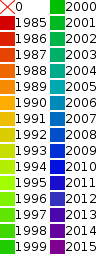
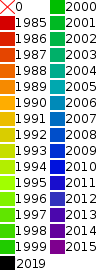
feat: add eox osm map to WSF as default and add it optionally for all other indicators in both instances

diff --git a/app/src/config/esa.js b/app/src/config/esa.js
@@ -224,6 +224,16 @@ const E1bConfigInputDataDes = [{
   opacity: 0.6,
 }];
 
+const cloudlessBaseLayerDefault = [{
+  ...baseLayers.cloudless,
+  visible: true,
+}, baseLayers.eoxosm, baseLayers.terrainLight];
+
+const eoxosmBaseLayerDefault = [{
+  ...baseLayers.eoxosm,
+  visible: true,
+}, baseLayers.cloudless, baseLayers.terrainLight];
+
 export const indicatorsDefinition = Object.freeze({
   C1: {
     indicatorSummary: 'Combined 1',
@@ -448,10 +458,7 @@ export const indicatorsDefinition = Object.freeze({
     indicatorSummary: 'Airports: airplanes traffic',
     themes: ['economy'],
     story: '/eodash-data/stories/E13d',
-    baseLayers: [baseLayers.terrainLight, {
-      ...baseLayers.cloudless,
-      visible: true,
-    }],
+    baseLayers: cloudlessBaseLayerDefault,
     mapTimeLabelExtended: true,
     features: {
       ...geodbFeatures,
@@ -766,10 +773,10 @@ export const mapDefaults = Object.freeze({
 
 export const baseLayersLeftMap = [{
   ...baseLayers.terrainLight, visible: true,
-}, baseLayers.cloudless];
+}, baseLayers.eoxosm, baseLayers.cloudless];
 export const baseLayersRightMap = [{
   ...baseLayers.terrainLight, visible: true,
-}, baseLayers.cloudless];
+}, baseLayers.eoxosm, baseLayers.cloudless];
 
 export const overlayLayersLeftMap = [{
   ...overlayLayers.eoxOverlay, visible: true,
@@ -1323,6 +1330,7 @@ export const globalIndicators = [
         time: getYearlyDates('1985', '2015'),
         inputData: [''],
         display: [{
+          baseLayers: eoxosmBaseLayerDefault,
           baseUrl: 'https://a.geoservice.dlr.de/eoc/land/wms/',
           name: 'DLR WSF 2019 coverage',
           layers: 'WSF_2019',
@@ -1330,7 +1338,7 @@ export const globalIndicators = [
           minZoom: 1,
           maxZoom: 17,
           labelFormatFunction: (date) => date,
-          attribution: '{ WSF Evolution Data are licensed under: <a href="https://creativecommons.org/licenses/by/4.0/" target="_blank"> Attribution 4.0 International (CC BY 4.0) </a>; Copyright DLR (2021)}',
+          attribution: '{ WSF Evolution Data are licensed under: <a href="https://creativecommons.org/licenses/by/4.0/" target="_blank"> Attribution 4.0 International (CC BY 4.0) </a>; Copyright DLR (2021);|Contains modified Copernicus Sentinel-1 and Sentinel-2 data [2019]}',
         }, {
           baseUrl: 'https://a.geoservice.dlr.de/eoc/land/wms/',
           name: 'DLR WSF Evolution 1985-2015',
@@ -1341,7 +1349,7 @@ export const globalIndicators = [
           labelFormatFunction: (date) => date,
           specialEnvTime: true,
           attribution: '{ WSF Evolution Data are licensed under: <a href="https://creativecommons.org/licenses/by/4.0/" target="_blank"> Attribution 4.0 International (CC BY 4.0) </a>; Contains modified Landsat-5/-7 data [1985-2015] }',
-        },],
+        }],
       },
     },
   },
@@ -1920,10 +1928,7 @@ export const globalIndicators = [
             dateFormatFunction: (date) => DateTime.fromISO(date).toFormat('yyyyMMdd'),
             url: './eodash-data/features/{indicator}/{indicator}_{aoiID}_{featuresTime}.geojson',
           },
-          baseLayers: [{
-            ...baseLayers.cloudless,
-            visible: true,
-          }, baseLayers.terrainLight],
+          baseLayers: cloudlessBaseLayerDefault,
         },
       },
     },
@@ -1958,10 +1963,7 @@ export const globalIndicators = [
             dateFormatFunction: (date) => DateTime.fromISO(date).toFormat('yyyyMMdd'),
             url: './eodash-data/features/{indicator}/{indicator}_{aoiID}_{featuresTime}.geojson',
           },
-          baseLayers: [{
-            ...baseLayers.cloudless,
-            visible: true,
-          }, baseLayers.terrainLight],
+          baseLayers: cloudlessBaseLayerDefault,
         },
       },
     },
@@ -1996,10 +1998,7 @@ export const globalIndicators = [
             dateFormatFunction: (date) => DateTime.fromISO(date).toFormat('yyyyMMdd'),
             url: './eodash-data/features/{indicator}/{indicator}_{aoiID}_{featuresTime}.geojson',
           },
-          baseLayers: [{
-            ...baseLayers.cloudless,
-            visible: true,
-          }, baseLayers.terrainLight],
+          baseLayers: cloudlessBaseLayerDefault,
         },
       },
     },
@@ -2034,10 +2033,7 @@ export const globalIndicators = [
             dateFormatFunction: (date) => DateTime.fromISO(date).toFormat('yyyyMMdd'),
             url: './eodash-data/features/E12b/E12b_{aoiID}_{featuresTime}.geojson',
           },
-          baseLayers: [{
-            ...baseLayers.cloudless,
-            visible: true,
-          }, baseLayers.terrainLight],
+          baseLayers: cloudlessBaseLayerDefault,
         },
       },
     },
@@ -2069,10 +2065,7 @@ export const globalIndicators = [
           layers: 'AWS_ICEYE-E13B',
           minZoom: 5,
           name: 'Airports: Detected planes',
-          baseLayers: [{
-            ...baseLayers.cloudless,
-            visible: true,
-          }, baseLayers.terrainLight],
+          baseLayers: cloudlessBaseLayerDefault,
         },
       },
     },
@@ -2104,10 +2097,7 @@ export const globalIndicators = [
           layers: 'AWS_ICEYE-E13B',
           minZoom: 5,
           name: 'Airports: Detected planes',
-          baseLayers: [{
-            ...baseLayers.cloudless,
-            visible: true,
-          }, baseLayers.terrainLight],
+          baseLayers: cloudlessBaseLayerDefault,
         },
       },
     },

diff --git a/app/src/config/trilateral.js b/app/src/config/trilateral.js
@@ -68,6 +68,21 @@ const geodbFeatures = {
   },
 };
 
+const cloudlessBaseLayerDefault = [{
+  ...baseLayers.cloudless,
+  visible: true,
+}, baseLayers.eoxosm, baseLayers.terrainLight];
+
+const eoxosmBaseLayerDefault = [{
+  ...baseLayers.eoxosm,
+  visible: true,
+}, baseLayers.cloudless, baseLayers.terrainLight];
+
+const mapBoxHighResoSubst = [{
+  ...baseLayers.mapboxHighReso,
+  visible: true,
+}, baseLayers.terrainLight, baseLayers.eoxosm, baseLayers.cloudless];
+
 const sharedPalsarFNFConfig = Object.freeze({
   url: 'https://ogcpreview1.restecmap.com/examind/api/WS/wmts/JAXA_WMTS_Preview/1.0.0/WMTSCapabilities.xml',
   protocol: 'WMTSCapabilities',
@@ -97,10 +112,7 @@ export const indicatorsDefinition = Object.freeze({
       ...geodbFeatures,
       url: `https://xcube-geodb.brockmann-consult.de/eodash/${shConfig.geodbInstanceId}/eodash_E13c_tri-detections?time=eq.{featuresTime}&aoi_id=eq.{aoiID}&select=geometry,time`,
     },
-    baseLayers: [{
-      ...baseLayers.cloudless,
-      visible: true,
-    }, baseLayers.terrainLight],
+    baseLayers: cloudlessBaseLayerDefault,
   },
   E1: {
     indicatorSummary: 'Status of metallic ores',
@@ -339,10 +351,7 @@ export const indicatorsDefinition = Object.freeze({
   N12: {
     indicatorSummary: 'Sea Ice Concentration (GCOM-W)',
     themes: ['cryosphere'],
-    baseLayers: [{
-      ...baseLayers.cloudless,
-      visible: true,
-    }, baseLayers.terrainLight],
+    baseLayers: cloudlessBaseLayerDefault,
     story: '/eodash-data/stories/N12',
   },
   N11: {
@@ -388,10 +397,7 @@ export const indicatorsDefinition = Object.freeze({
     indicatorSummary: 'Facebook population density',
     themes: ['economy'],
     disableTimeSelection: true,
-    baseLayers: [{
-      ...baseLayers.cloudless,
-      visible: true,
-    }, baseLayers.terrainLight],
+    baseLayers: cloudlessBaseLayerDefault,
   },
   SIF: {
     indicatorSummary: 'Solar Induced Chlorophyll Fluorescence',
@@ -513,6 +519,7 @@ export const indicatorsDefinition = Object.freeze({
     baseLayers: [
       baseLayers.terrainLight,
       baseLayers.cloudless,
+      baseLayers.eoxosm,
       {
         name: 'Antarctic hillshade, bathymetry',
         baseUrl: 'https://maps.bas.ac.uk/antarctic/wms',
@@ -802,10 +809,10 @@ export const mapDefaults = Object.freeze({
 
 export const baseLayersLeftMap = [{
   ...baseLayers.terrainLight, visible: true,
-}, baseLayers.cloudless];
+}, baseLayers.eoxosm, baseLayers.cloudless];
 export const baseLayersRightMap = [{
   ...baseLayers.terrainLight, visible: true,
-}, baseLayers.cloudless];
+}, baseLayers.eoxosm, baseLayers.cloudless];
 
 export const overlayLayersLeftMap = [{
   ...overlayLayers.eoxOverlay,
@@ -819,11 +826,6 @@ export const overlayLayersRightMap = [{
 }];
 
 export const administrativeLayers = [];
-
-const mapBoxHighResoSubst = [{
-  ...baseLayers.mapboxHighReso,
-  visible: true,
-}, baseLayers.terrainLight, baseLayers.cloudless];
 
 export const defaultLayersDisplay = {
   baseUrl: `https://services.sentinel-hub.com/ogc/wms/${shConfig.shInstanceId}`,
@@ -1966,18 +1968,27 @@ export const globalIndicators = [
         aoiID: 'WSF',
         time: getYearlyDates('1985', '2015'),
         inputData: [''],
-        display: {
+        display: [{
+          baseLayers: eoxosmBaseLayerDefault,
           baseUrl: 'https://a.geoservice.dlr.de/eoc/land/wms/',
-          name: 'WSF_Evolution',
-          layers: 'WSF_Evolution',
+          name: 'DLR WSF 2019 coverage',
+          layers: 'WSF_2019',
           legendUrl: 'data/trilateral/wsf_legend.png',
           minZoom: 1,
-          maxZoom: 14,
+          maxZoom: 17,
+          labelFormatFunction: (date) => date,
+          attribution: '{ WSF Evolution Data are licensed under: <a href="https://creativecommons.org/licenses/by/4.0/" target="_blank"> Attribution 4.0 International (CC BY 4.0) </a>; Copyright DLR (2021);|Contains modified Copernicus Sentinel-1 and Sentinel-2 data [2019]}',
+        }, {
+          baseUrl: 'https://a.geoservice.dlr.de/eoc/land/wms/',
+          name: 'DLR WSF Evolution 1985-2015',
+          layers: 'WSF_Evolution',
+          minZoom: 1,
+          maxZoom: 17,
           dateFormatFunction: (date) => DateTime.fromISO(date).toFormat('yyyy'),
           labelFormatFunction: (date) => date,
           specialEnvTime: true,
           attribution: '{ WSF Evolution Data are licensed under: <a href="https://creativecommons.org/licenses/by/4.0/" target="_blank"> Attribution 4.0 International (CC BY 4.0) </a>; Contains modified Landsat-5/-7 data [1985-2015] }',
-        },
+        }],
       },
     },
   },

diff --git a/app/src/components/map/Map.vue b/app/src/components/map/Map.vue
@@ -262,13 +262,8 @@ export default {
     ...mapGetters('features', ['getGroupedFeatures', 'getFeatures']),
     ...mapState('config', ['appConfig', 'baseConfig']),
     baseLayerConfigs() {
-      if (this.isGlobalIndicator) {
-        // use their own base layers from config, if available
-        return this.baseConfig.indicatorsDefinition[this.$store
-          .state.indicators.selectedIndicator.indicator].baseLayers
-          || this.baseConfig.baseLayersLeftMap;
-      }
-      return this.baseConfig.baseLayersLeftMap;
+      return (this.mergedConfigsData.length && this.mergedConfigsData[0].baseLayers)
+        || this.baseConfig.baseLayersLeftMap;
     },
     layerNameMapping() {
       return this.baseConfig.layerNameMapping;
@@ -289,13 +284,9 @@ export default {
       return configs;
     },
     overlayConfigs() {
-      let configs = [...this.baseConfig.overlayLayersLeftMap];
-      if (this.isGlobalIndicator) {
-        // use their own overlay layers from config, if available
-        configs = this.baseConfig.indicatorsDefinition[this.$store
-          .state.indicators.selectedIndicator.indicator].overlayLayers
-          || this.baseConfig.overlayLayersLeftMap;
-      }
+      const configs = [...((
+        this.mergedConfigsData.length && this.mergedConfigsData[0].overlayLayers
+      ) || this.baseConfig.overlayLayersLeftMap)];
       // administrativeLayers replace country vectors
       if (!this.isGlobalIndicator && this.baseConfig.administrativeLayers?.length === 0) {
         configs.push({

diff --git a/app/src/config/layers.js b/app/src/config/layers.js
@@ -18,6 +18,14 @@ export const baseLayers = Object.freeze({
     visible: false,
     protocol: 'xyz',
   },
+  eoxosm: {
+    name: 'OSM Background',
+    url: '//s2maps-tiles.eu/wmts/1.0.0/osm_3857/default/g/{z}/{y}/{x}.jpg',
+    attribution: '{ OSM: Data &copy; <a href="http://www.openstreetmap.org/copyright" target="_blank">OpenStreetMap</a> contributors and <a href="//maps.eox.at/#data" target="_blank">others</a>, Rendering &copy; <a href="http://eox.at" target="_blank">EOX</a> }',
+    maxZoom: 16,
+    visible: false,
+    protocol: 'xyz',
+  },
   S2GLC: {
     baseUrl: `https://shservices.mundiwebservices.com/ogc/wms/${shConfig.shInstanceIdGtif}`,
     protocol: 'WMS',

diff --git a/app/public/eodash-data/stories/WSF-WSF.md b/app/public/eodash-data/stories/WSF-WSF.md
@@ -2,10 +2,12 @@
 
 Source: [EOC Geoservice of the Earth Observation Center (EOC) of the German Aerospace Center (DLR) ](https://geoservice.dlr.de/web/maps/eoc:wsf2019)
 
-The World Settlement Footprint (WSF) Evolution product illustrates the worldwide growth of human settlements on a year-by-year basis from 1985 to 2015.
+The World Settlement Footprint (WSF) Evolution product illustrates the worldwide growth of human settlements on a year-by-year basis from 1985 to 2015. Each color shows settlements added on that year.
 In particular, the layer has been derived by processing about 7-million Landsat-5 and Landsat-7 scenes and it features 30m spatial resolution.
 
 The WSF evolution is licensed under [CC-BY-4.0](https://creativecommons.org/licenses/by-nc/4.0/).
+
+The WSF 2019 product shown underneath the Evolution layer presents the global state of settlements in year 2019 in higher resolution. The layer has been derived by means of 2019 multitemporal Sentinel-1 (S1) and Sentinel-2 (S2) imagery.
 
 More on mapping our human footprint from space in this [ESA Webstory](https://www.esa.int/Applications/Observing_the_Earth/Mapping_our_human_footprint_from_space).
 
